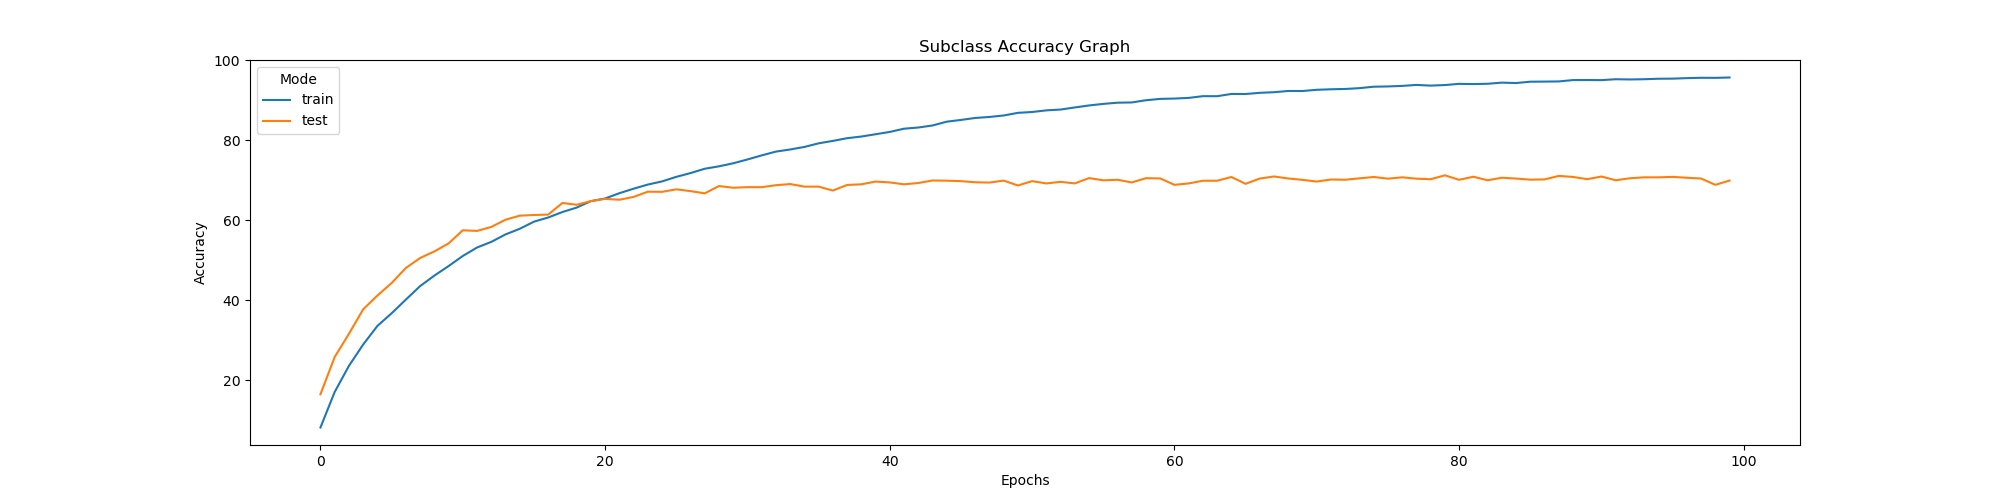
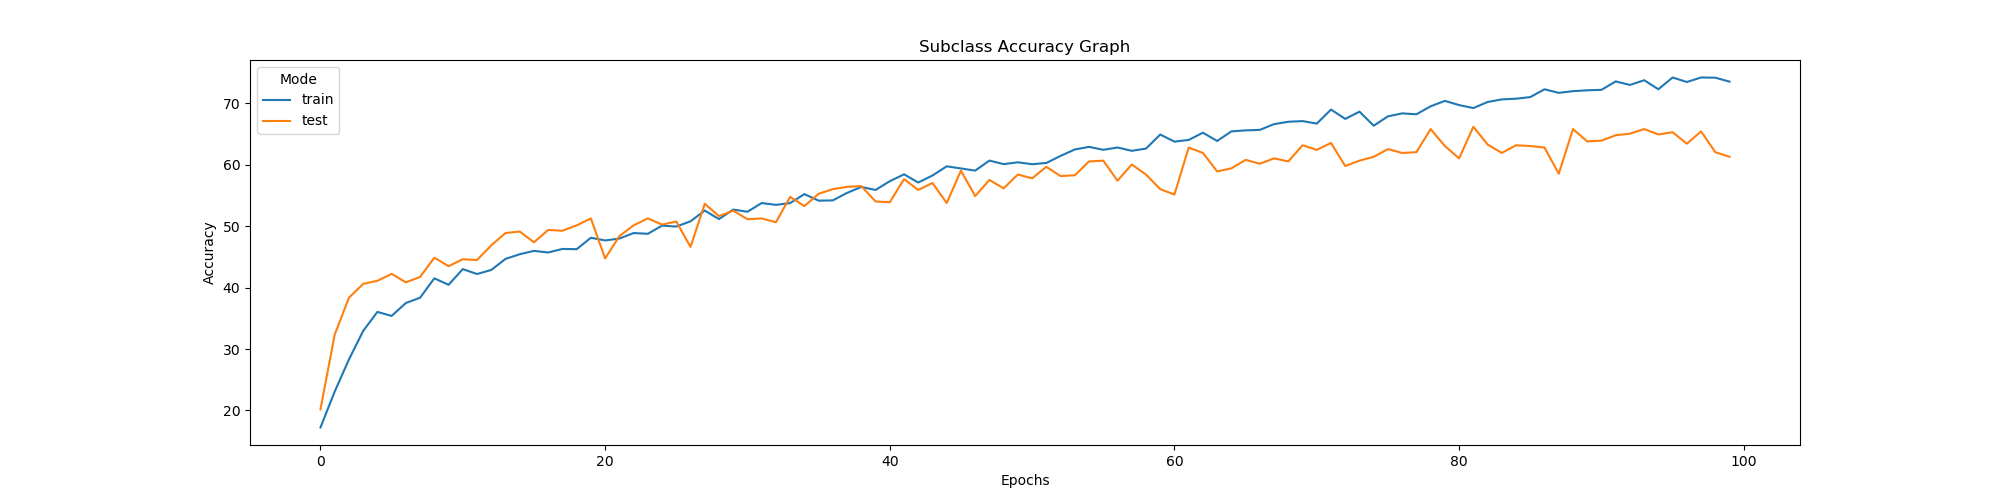
update resnet50.py commetn

diff --git a/model/resnet50.py b/model/resnet50.py
@@ -58,19 +58,23 @@ class ResNet50(nn.Module):
     '''ResNet-50 Architecture.
     '''
 
-    def __init__(self, use_cbam=True, image_depth=3, num_classes=[20,100]):
+    def __init__(self, use_cbam=True, image_depth=3, num_classes=[4,14]):#num_classes=[20,100]
         '''Params init and build arch.
         '''
         super(ResNet50, self).__init__()
 
-        self.in_channels = 64
+        self.in_channels = 64 
         self.expansion = 4
         self.num_blocks = [3, 4, 6, 3]
-
+        #in_channels:輸入通道數  ; out_channels:輸出通道數(可隨意定義)
+        #權重的shape為in_ch * kernelsize(3*3)
+        #權重張量(tensor)完整大小:out_ch x in_ch x kernelsize(3x3) = 3*64*3* 3
+        #bias:偏值，加在輸出圖片各個通道上面的常數值
+        #padding填補邊界：針對圖片的邊緣進行填補，數值為0 : 使其輸出圖片的大小和原始圖片大小一致了
         self.conv_block1 = nn.Sequential(nn.Conv2d(kernel_size=3, stride=1, in_channels=image_depth, out_channels=self.in_channels, padding=1, bias=False),
                                             nn.BatchNorm2d(self.in_channels),
                                             nn.ReLU(inplace=True))
-
+        #stride 步長：提取各軸下個元數時，需要跳過的元素數量
         self.layer1 = self.make_layer(out_channels=64, num_blocks=self.num_blocks[0], stride=1, use_cbam=use_cbam)
         self.layer2 = self.make_layer(out_channels=128, num_blocks=self.num_blocks[1], stride=2, use_cbam=use_cbam)
         self.layer3 = self.make_layer(out_channels=256, num_blocks=self.num_blocks[2], stride=1, use_cbam=use_cbam)
@@ -96,7 +100,7 @@ class ResNet50(nn.Module):
         return nn.Sequential(*layers)
 
 
-    def forward(self, x):
+    def forward(self, x): #__call__
         '''Forward propagation of ResNet-50.
         '''
 
